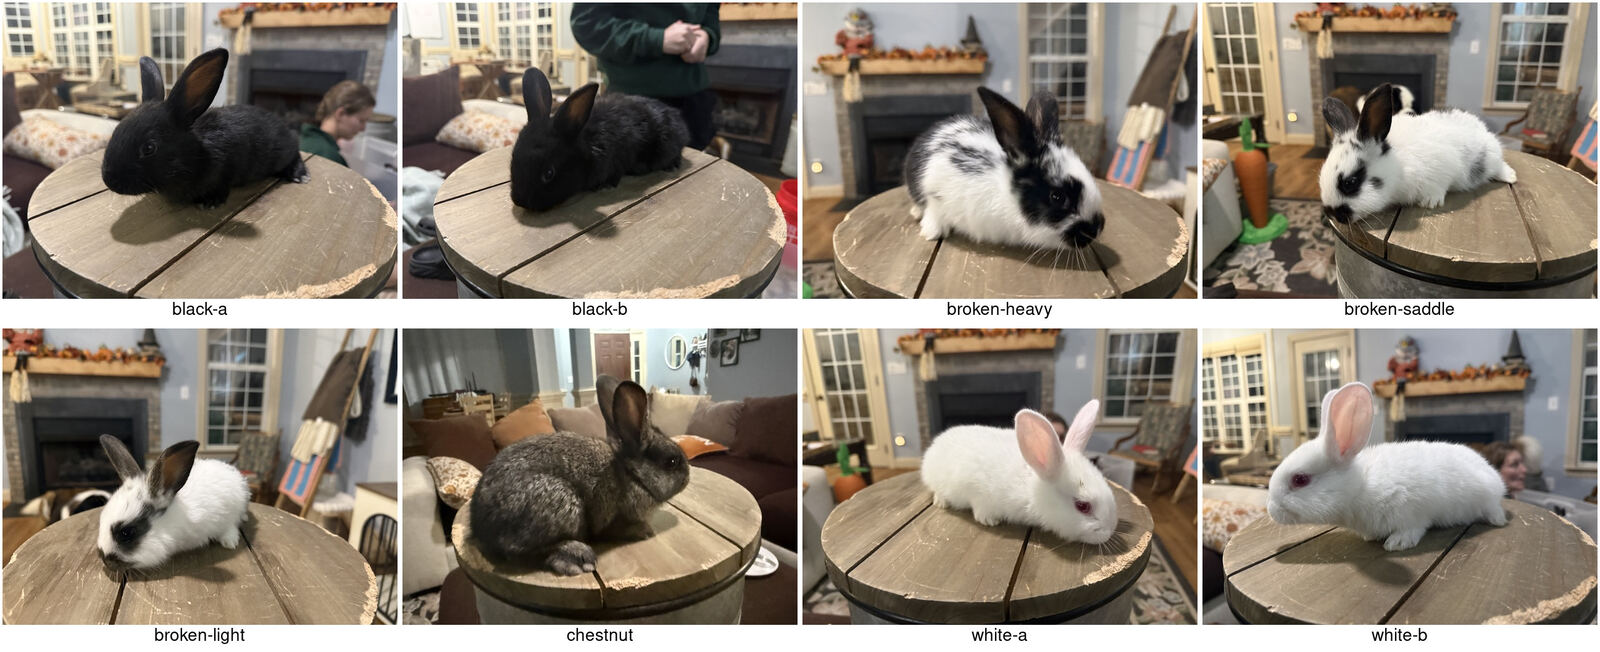
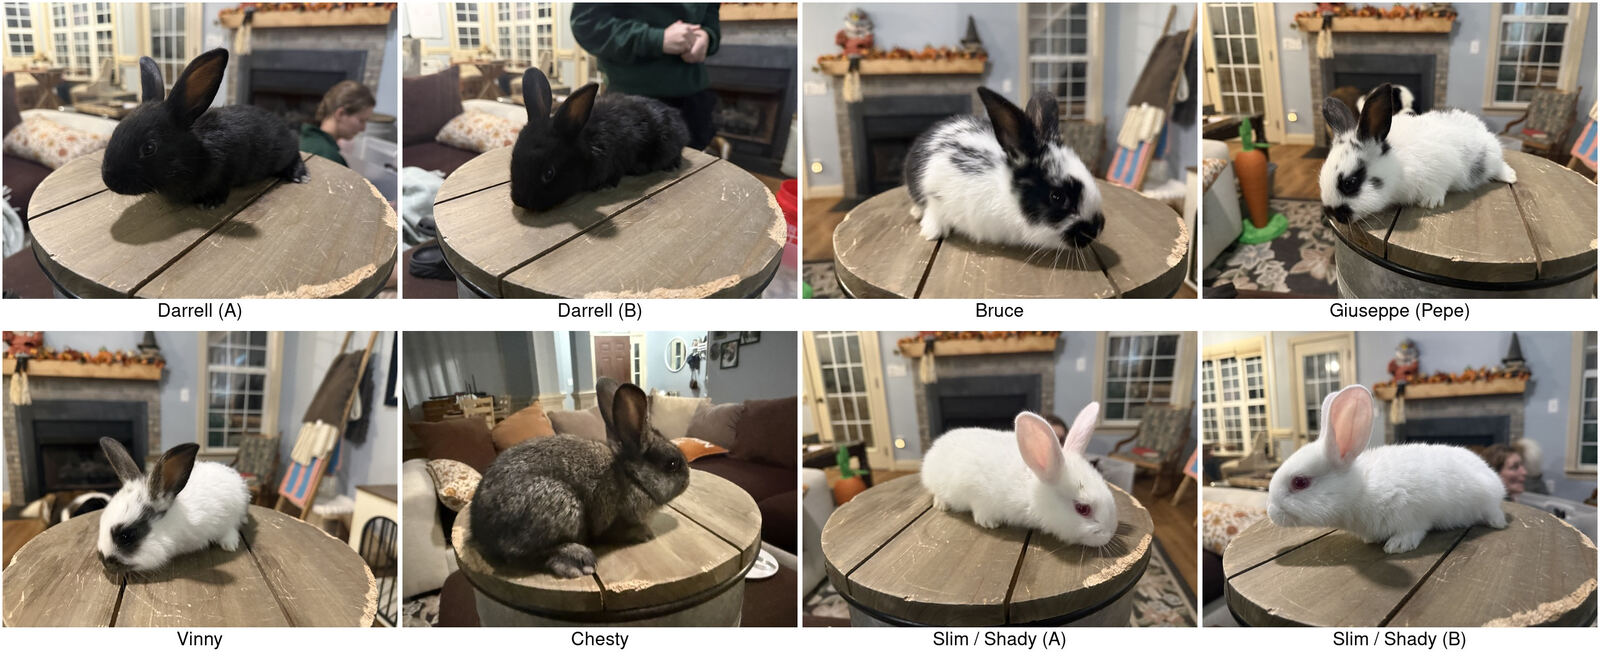
bunnies: name all eight rabbis (Darrell x2, Bruce, Pepe, Vinny, Chesty, Slim, Shady)
Claude-Session: https://claude.ai/code/session_01S3pqUHUhuhSd1gXEZ5gfcL

diff --git a/bunnies/index.html b/bunnies/index.html
@@ -125,7 +125,7 @@ ol{margin:6px 0 0 20px;padding:0}li{margin-bottom:6px;max-width:70ch}
 </header>
 
 <div class="note">
-  <p><b>Bottom line:</b> if you keep a buck, keep a solid one. A Darrel is first choice, the chestnut second, and an albino is fine. The three brokens are fryers, not sires. Pick on growth, not color. Color only breaks a tie. Sex them at 6 weeks (~Oct 16) and confirm at 8 (~Oct 30). Weigh weekly and decide at 10 to 12 weeks (~Nov 13 to 27).</p>
+  <p><b>Bottom line:</b> if you keep a buck, keep a solid one. A Darrell is first choice, Chesty second, and Slim or Shady is fine. The three brokens are fryers, not sires. Pick on growth, not color. Color only breaks a tie. Sex them at 6 weeks (~Oct 16) and confirm at 8 (~Oct 30). Weigh weekly and decide at 10 to 12 weeks (~Nov 13 to 27).</p>
   <p><b>One photo could settle who the sire is.</b> The brokens show textbook English broken marks: butterfly nose, eye circles, colored ears, spots along the spine. So one parent carried the broken gene. Thump was solid black and didn't. If Lucky has none of those marks herself (just a blaze, collar and socks), the brokens had to come from Yoseph, and it's his litter. If she does have a butterfly and eye circles, it stays open. A clear shot of Lucky's face and back answers it.</p>
 </div>
 
@@ -150,10 +150,10 @@ ol{margin:6px 0 0 20px;padding:0}li{margin-bottom:6px;max-width:70ch}
   <div class="grid">
 
     <article class="kit">
-      <button class="ph" type="button" data-kit="black-a" data-n="2" data-start="2" data-name="Black A" aria-label="Open all 2 photos of Black A"><img src="img/oct4/black-a/02.jpg" alt="Black A" loading="lazy"><span class="count">2 photos</span></button>
+      <button class="ph" type="button" data-kit="black-a" data-n="2" data-start="2" data-name="Rabbi Darrell (black A)" aria-label="Open all 2 photos of black A"><img src="img/oct4/black-a/02.jpg" alt="Solid black kit, one of the two Darrells" loading="lazy"><span class="count">2 photos</span></button>
       <div class="body">
-        <h3>Black A <span class="coat">solid black · a Darrel</span></h3>
-        <p>Jet black head to toe, no white at all. The ear linings show a warm brown edge in lamplight, which is normal for black.</p>
+        <h3>Rabbi Darrell <span class="coat">solid black · "A"</span></h3>
+        <p>Jet black head to toe, no white at all. The ear linings show a warm brown edge in lamplight, which is normal for black. Both blacks are Darrell, same spelling, said two ways. Bekah tells them apart by personality: <b>the adventurous one is the one you say like "Darrell"</b>, and the calmer one is the one you say like "Daryl." Which of these two photo sets is which hasn't been matched yet. Put an ear dot on the adventurous one so it shows in photos.</p>
         <div class="lbl">Likely genes</div>
         <div class="geno"><span class="g">aa<i>self</i></span><span class="g">en en<i>no spotting</i></span><span class="g">C?<i>2/3 Cc</i></span><span class="g">D?<i>Dd if Yoseph</i></span></div>
         <div class="verdict v-good"><b>Top sire pick, if a buck</b>No broken gene, so breeding him back to Lucky can't make Charlies.</div>
@@ -162,21 +162,21 @@ ol{margin:6px 0 0 20px;padding:0}li{margin-bottom:6px;max-width:70ch}
     </article>
 
     <article class="kit">
-      <button class="ph" type="button" data-kit="black-b" data-n="4" data-start="1" data-name="Black B" aria-label="Open all 4 photos of Black B"><img src="img/oct4/black-b/01.jpg" alt="Black B" loading="lazy"><span class="count">4 photos</span></button>
+      <button class="ph" type="button" data-kit="black-b" data-n="4" data-start="1" data-name="Rabbi Darrell (black B)" aria-label="Open all 4 photos of black B"><img src="img/oct4/black-b/01.jpg" alt="Solid black kit, one of the two Darrells" loading="lazy"><span class="count">4 photos</span></button>
       <div class="body">
-        <h3>Black B <span class="coat">solid black · a Darrel</span></h3>
-        <p>Same as Black A. The Sept 21 videos made this one look slate gray, but in real light it's black, not blue. That fits zero blue kits in the litter.</p>
+        <h3>Rabbi Darrell <span class="coat">solid black · "B"</span></h3>
+        <p>Same as the other black. The Sept 21 videos made this one look slate gray, but in real light it's black, not blue. That fits zero blue kits in the litter.</p>
         <div class="lbl">Likely genes</div>
         <div class="geno"><span class="g">aa<i>self</i></span><span class="g">en en<i>no spotting</i></span><span class="g">C?<i>2/3 Cc</i></span><span class="g">D?<i>Dd if Yoseph</i></span></div>
-        <div class="verdict v-good"><b>Top sire pick, if a buck</b>Equal to Black A. Growth decides between them. Ear-dot one of them now so the weights stay attached to the right rabbit.</div>
+        <div class="verdict v-good"><b>Top sire pick, if a buck</b>Equal to his brother. Growth decides between them, which is why the ear dot matters: weights are useless if they land on the wrong Darrell.</div>
         <div class="src">Folder <code>02-black-b</code> · IMG_0486 to 0489</div>
       </div>
     </article>
 
     <article class="kit">
-      <button class="ph" type="button" data-kit="chestnut" data-n="10" data-start="8" data-name="Chestnut" aria-label="Open all 10 photos of Chestnut"><img src="img/oct4/chestnut/08.jpg" alt="Chestnut" loading="lazy"><span class="count">10 photos</span></button>
+      <button class="ph" type="button" data-kit="chestnut" data-n="10" data-start="8" data-name="Rabbi Chesty" aria-label="Open all 10 photos of Chesty"><img src="img/oct4/chestnut/08.jpg" alt="Chesty, the chestnut agouti kit" loading="lazy"><span class="count">10 photos</span></button>
       <div class="body">
-        <h3>Chestnut <span class="coat">agouti · no white</span></h3>
+        <h3>Rabbi Chesty <span class="coat">chestnut agouti · no white</span></h3>
         <p>The only grizzled kit: dark slate base with lighter banded tips, reading gray-brown. Paler belly and inner ear rim. No white anywhere.</p>
         <div class="lbl">Likely genes</div>
         <div class="geno"><span class="g">A a<i>agouti, carries self</i></span><span class="g">en en<i>no spotting</i></span><span class="g">C?<i>2/3 Cc</i></span><span class="g">D?<i>Dd if Yoseph</i></span></div>
@@ -186,9 +186,9 @@ ol{margin:6px 0 0 20px;padding:0}li{margin-bottom:6px;max-width:70ch}
     </article>
 
     <article class="kit">
-      <button class="ph" type="button" data-kit="white-a" data-n="4" data-start="2" data-name="White A" aria-label="Open all 4 photos of White A"><img src="img/oct4/white-a/02.jpg" alt="White A" loading="lazy"><span class="count">4 photos</span></button>
+      <button class="ph" type="button" data-kit="white-a" data-n="4" data-start="2" data-name="Slim or Shady (white A)" aria-label="Open all 4 photos of white A"><img src="img/oct4/white-a/02.jpg" alt="Red-eyed albino kit, Slim or Shady" loading="lazy"><span class="count">4 photos</span></button>
       <div class="body">
-        <h3>White A <span class="coat">red-eyed albino</span></h3>
+        <h3>Rabbi Slim or Rabbi Shady <span class="coat">red-eyed albino · "A"</span></h3>
         <p>Pure white, pink ears, ruby eyes. Being albino hides every other color gene, so nobody can say what he carries underneath.</p>
         <div class="lbl">Likely genes</div>
         <div class="geno"><span class="g">cc<i>albino, proven</i></span><span class="g">rest hidden<i>could even be broken</i></span></div>
@@ -198,21 +198,21 @@ ol{margin:6px 0 0 20px;padding:0}li{margin-bottom:6px;max-width:70ch}
     </article>
 
     <article class="kit">
-      <button class="ph" type="button" data-kit="white-b" data-n="4" data-start="3" data-name="White B" aria-label="Open all 4 photos of White B"><img src="img/oct4/white-b/03.jpg" alt="White B" loading="lazy"><span class="count">4 photos</span></button>
+      <button class="ph" type="button" data-kit="white-b" data-n="4" data-start="3" data-name="Shady or Slim (white B)" aria-label="Open all 4 photos of white B"><img src="img/oct4/white-b/03.jpg" alt="Red-eyed albino kit, Slim or Shady" loading="lazy"><span class="count">4 photos</span></button>
       <div class="body">
-        <h3>White B <span class="coat">red-eyed albino</span></h3>
-        <p>Identical to White A in photos. A and B only mark which one was photographed first, so mark an ear before the labels drift. Still unnamed. Bekah's pick was Slim and Shady.</p>
+        <h3>Rabbi Shady or Rabbi Slim <span class="coat">red-eyed albino · "B"</span></h3>
+        <p>Identical to his brother in photos. A and B only mark which one was photographed first. Bekah tells them apart by personality: <b>Shady is the more adventurous one</b>, Slim the calmer one. Which photo set is which hasn't been matched yet. Put an ear dot on Shady.</p>
         <div class="lbl">Likely genes</div>
         <div class="geno"><span class="g">cc<i>albino, proven</i></span><span class="g">rest hidden</span></div>
-        <div class="verdict v-ok"><b>Usable sire, third choice</b>Same as White A. Either one bred to Lucky throws about half albino kits.</div>
+        <div class="verdict v-ok"><b>Usable sire, third choice</b>Same as his brother. Either one bred to Lucky throws about half albino kits.</div>
         <div class="src">Folder <code>08-white-b</code> · IMG_0461 to 0464</div>
       </div>
     </article>
 
     <article class="kit">
-      <button class="ph" type="button" data-kit="broken-heavy" data-n="9" data-start="6" data-name="Broken, heavy" aria-label="Open all 9 photos of Broken, heavy"><img src="img/oct4/broken-heavy/06.jpg" alt="Broken, heavy" loading="lazy"><span class="count">9 photos</span></button>
+      <button class="ph" type="button" data-kit="broken-heavy" data-n="9" data-start="6" data-name="Rabbi Bruce" aria-label="Open all 9 photos of Bruce"><img src="img/oct4/broken-heavy/06.jpg" alt="Bruce, the most heavily marked broken kit" loading="lazy"><span class="count">9 photos</span></button>
       <div class="body">
-        <h3>Broken, heavy <span class="coat">black broken · most color</span></h3>
+        <h3>Rabbi Bruce <span class="coat">black broken · most color</span></h3>
         <p>Full black eye patches, solid black ears, a bold butterfly, and heavy black blotching down the back and flanks. The most color of the three.</p>
         <div class="lbl">Likely genes</div>
         <div class="geno"><span class="g">aa<i>self black</i></span><span class="g">En en<i>broken, proven</i></span><span class="g">C?</span><span class="g">D?</span></div>
@@ -222,10 +222,10 @@ ol{margin:6px 0 0 20px;padding:0}li{margin-bottom:6px;max-width:70ch}
     </article>
 
     <article class="kit">
-      <button class="ph" type="button" data-kit="broken-saddle" data-n="5" data-start="3" data-name="Broken, saddle" aria-label="Open all 5 photos of Broken, saddle"><img src="img/oct4/broken-saddle/03.jpg" alt="Broken, saddle" loading="lazy"><span class="count">5 photos</span></button>
+      <button class="ph" type="button" data-kit="broken-saddle" data-n="5" data-start="3" data-name="Rabbi Giuseppe (Pepe)" aria-label="Open all 5 photos of Pepe"><img src="img/oct4/broken-saddle/03.jpg" alt="Pepe, broken kit with color across the back" loading="lazy"><span class="count">5 photos</span></button>
       <div class="body">
-        <h3>Broken, saddle <span class="coat">black broken · medium</span></h3>
-        <p>Eye circles, butterfly, black ears, and a dark saddle stripe across the back (clearest in the second photo). Scattered spots on the hips.</p>
+        <h3>Rabbi Giuseppe <span class="coat">"Pepe" · black broken · medium</span></h3>
+        <p>Eye circles, butterfly, black ears, and a back stripe with extra color spread around it, plus scattered spots on the hips. The more-colored of the two striped ones, which is how you tell him from Vinny.</p>
         <div class="lbl">Likely genes</div>
         <div class="geno"><span class="g">aa<i>self black</i></span><span class="g">En en<i>broken, proven</i></span><span class="g">C?</span><span class="g">D?</span></div>
         <div class="verdict v-no"><b>Fryer, not a sire</b>Same reasoning as the other brokens.</div>
@@ -234,10 +234,10 @@ ol{margin:6px 0 0 20px;padding:0}li{margin-bottom:6px;max-width:70ch}
     </article>
 
     <article class="kit">
-      <button class="ph" type="button" data-kit="broken-light" data-n="6" data-start="3" data-name="Broken, light" aria-label="Open all 6 photos of Broken, light"><img src="img/oct4/broken-light/03.jpg" alt="Broken, light" loading="lazy"><span class="count">6 photos</span></button>
+      <button class="ph" type="button" data-kit="broken-light" data-n="6" data-start="3" data-name="Rabbi Vinny" aria-label="Open all 6 photos of Vinny"><img src="img/oct4/broken-light/03.jpg" alt="Vinny, the whitest broken kit" loading="lazy"><span class="count">6 photos</span></button>
       <div class="body">
-        <h3>Broken, light <span class="coat">black broken · least color</span></h3>
-        <p>Mostly white with eye patches, a butterfly, dark ears, and faint gray flecks on the flank. The lightest-marked of the three, but still one copy of broken, not a Charlie. Charlies are nearly all white with just a nose smudge.</p>
+        <h3>Rabbi Vinny <span class="coat">black broken · least color</span></h3>
+        <p>Mostly white with eye patches, a butterfly, dark ears, and just the stripe on the back with a few gray flecks. The whiter of the two striped ones. The lightest-marked of the three, but still one copy of broken, not a Charlie. Charlies are nearly all white with just a nose smudge.</p>
         <div class="lbl">Likely genes</div>
         <div class="geno"><span class="g">aa<i>self black</i></span><span class="g">En en<i>broken, proven</i></span><span class="g">C?</span><span class="g">D?</span></div>
         <div class="verdict v-no"><b>Fryer, not a sire</b>Watch growth anyway. If a broken lags or bloats around weaning, process it early.</div>
@@ -246,7 +246,7 @@ ol{margin:6px 0 0 20px;padding:0}li{margin-bottom:6px;max-width:70ch}
     </article>
 
   </div>
-  <p class="cap" style="margin-top:14px">The "Italian" names go with the three brokens. These labels don't map to the Sept 21 numbers 1 to 8, because the brokens' marks have filled in too much to match them for sure.</p>
+  <p class="cap" style="margin-top:14px">All eight are rabbis. The pairs (the two Darrells, Slim and Shady) look identical, so Bekah goes by personality: the adventurous Darrell and Shady are the bold ones. Ear-dot those two and the photos will sort themselves out. These cards don't map to the Sept 21 numbers 1 to 8, because the brokens' marks have filled in too much to match them for sure.</p>
 </section>
 
 <section class="lineup">
@@ -260,12 +260,12 @@ ol{margin:6px 0 0 20px;padding:0}li{margin-bottom:6px;max-width:70ch}
     <div>
       <div class="lbl" style="margin-bottom:6px">Ranking, if a buck</div>
       <ol>
-        <li><b>Black A or Black B.</b> No spotting gene, the cleanest genetics in the litter.</li>
-        <li><b>Chestnut.</b> Same cleanliness, and easy to identify.</li>
-        <li><b>White A or White B.</b> Fine for meat, but his hidden genes are unknown.</li>
-        <li><b>Brokens: no.</b> Freezer at 10 to 12 weeks.</li>
+        <li><b>Either Darrell.</b> No spotting gene, the cleanest genetics in the litter.</li>
+        <li><b>Chesty.</b> Same cleanliness, and easy to identify.</li>
+        <li><b>Slim or Shady.</b> Fine for meat, but his hidden genes are unknown.</li>
+        <li><b>Bruce, Pepe, Vinny: no.</b> Freezer at 10 to 12 weeks.</li>
       </ol>
-      <p style="margin-top:10px;font-size:15px">Growth beats this list. A fast-growing chestnut beats a slow Darrel. Look for weekly gain and a broad, meaty back.</p>
+      <p style="margin-top:10px;font-size:15px">Growth beats this list. A fast-growing Chesty beats a slow Darrell. Look for weekly gain and a broad, meaty back.</p>
     </div>
     <div>
       <div class="lbl" style="margin-bottom:6px">Dates</div>
